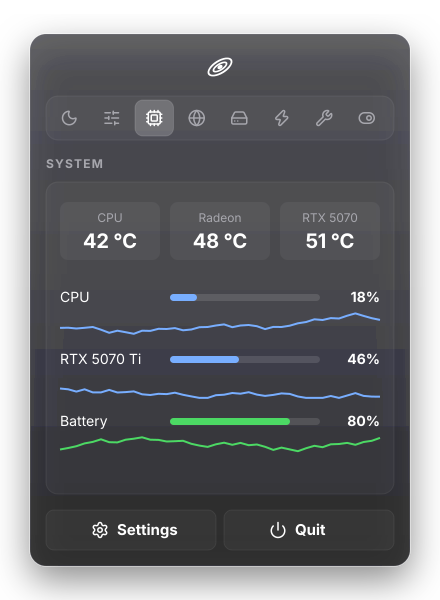
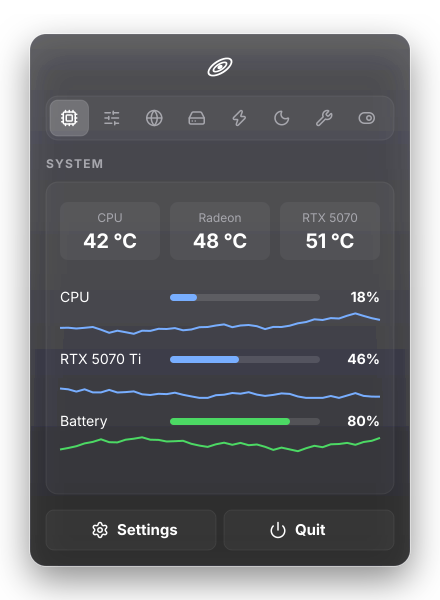
Polish repo
- panel tabs: System first
- adapted files note who changed them and when
- THIRD-PARTY wording, Lucide notice on the website, copyright line
- preview images updated

diff --git a/docs/index.html b/docs/index.html
@@ -1,4 +1,12 @@
 <!doctype html>
+<!--
+  Andromeda website. Copyright (C) 2026 Incept0s, GPL-3.0-or-later.
+  Icons: Lucide (https://lucide.dev), ISC License, Copyright (c) 2026 Lucide
+  Icons and Contributors. Permission to use, copy, modify, and/or distribute
+  this software for any purpose with or without fee is hereby granted,
+  provided that the above copyright notice and this permission notice appear
+  in all copies.
+-->
 <html lang="en">
 <head>
   <meta charset="utf-8">
@@ -193,6 +201,7 @@
   <footer>
     <div class="wrap">
       <p>Andromeda is free software under the GNU GPL, version 3 or later. Inspired by Vorssaint Utils; not affiliated with or endorsed by Vorssaint.</p>
+      <p>Icons by <a href="https://lucide.dev">Lucide</a> (ISC). © 2026 Incept0s.</p>
       <p><a href="https://github.com/Incept0s/andromeda">Source</a> · <a href="https://github.com/Incept0s/andromeda/releases">Releases</a> · <a href="https://github.com/Incept0s/andromeda/issues">Issues</a></p>
     </div>
   </footer>

diff --git a/crates/daemon/src/alerts.rs b/crates/daemon/src/alerts.rs
@@ -2,7 +2,8 @@
 //
 // The sustained-reading gate below is adapted from Vorssaint Utils
 // (Sources/Vorssaint/Services/Metrics/SustainedAlertGate.swift),
-// Copyright (C) 2026 Vorssaint, GPL-3.0-or-later. Modified: translated to
+// Copyright (C) 2026 Vorssaint, GPL-3.0-or-later. Modified by Incept0s on
+// 2026-11-17: translated to
 // Rust, generic over any metric and direction, cooldown added here.
 
 //! Threshold alerts. A single reading over the limit proves nothing (a

diff --git a/crates/daemon/src/cleaner.rs b/crates/daemon/src/cleaner.rs
@@ -2,7 +2,8 @@
 //
 // The pre-check policy (strong evidence + cheap to rebuild = checked;
 // guesses = unchecked) follows Vorssaint Utils' CleanerPolicy.swift,
-// Copyright (C) 2026 Vorssaint, GPL-3.0-or-later. Modified: rewritten for
+// Copyright (C) 2026 Vorssaint, GPL-3.0-or-later. Modified by Incept0s on
+// 2026-11-17: rewritten for
 // Linux paths and tools.
 
 //! Cleaner: finds caches, Trash, old screenshots, leftovers of removed

diff --git a/frontend/src/main.rs b/frontend/src/main.rs
@@ -139,12 +139,12 @@ enum Tab {
 
 impl Tab {
     const ALL: [Tab; 8] = [
-        Tab::Awake,
-        Tab::Mixer,
         Tab::System,
+        Tab::Mixer,
         Tab::Network,
         Tab::Disk,
         Tab::Energy,
+        Tab::Awake,
         Tab::Tools,
         Tab::Controls,
     ];

diff --git a/README.md b/README.md
@@ -253,8 +253,8 @@ If something in the panel confused you, that is a bug worth reporting too.
 
 ## License and credits
 
-Andromeda is free software under the **GNU General Public License, version 3
-or later**; see [LICENSE](LICENSE). Third-party components and their licences
+Copyright © 2026 Incept0s. Andromeda is free software under the **GNU General
+Public License, version 3 or later**; see [LICENSE](LICENSE). Third-party components and their licences
 are listed in [THIRD-PARTY.md](THIRD-PARTY.md), and every Rust crate compiled
 in is listed in [THIRD-PARTY-LICENSES.md](THIRD-PARTY-LICENSES.md).
 
@@ -262,4 +262,4 @@ in is listed in [THIRD-PARTY-LICENSES.md](THIRD-PARTY-LICENSES.md).
 adapted from its GPL-3.0-or-later source and marked as modified (see
 THIRD-PARTY.md); everything else is a new implementation. Andromeda is an
 independent project, not affiliated with or endorsed by Vorssaint, and uses
-none of its name, logo or artwork.
+none of its logo, icons, artwork or visual design.

diff --git a/THIRD-PARTY.md b/THIRD-PARTY.md
@@ -54,7 +54,8 @@ Not shipped with Andromeda; installed from Fedora and called or linked:
 ## Trademarks
 
 Vorssaint and the Vorssaint logo are trademarks of their owner. Andromeda is
-inspired by Vorssaint Utils' features and layout, is not affiliated with or
-endorsed by Vorssaint, and uses none of its name, logo or artwork. NVIDIA,
+inspired by Vorssaint Utils' feature set, is not affiliated with or endorsed by
+Vorssaint, and uses none of its logo, icons, artwork or visual design; its
+name appears only to credit the inspiration. NVIDIA,
 GNOME, Fedora and other names are trademarks of their respective owners and
 are used only to describe compatibility.
